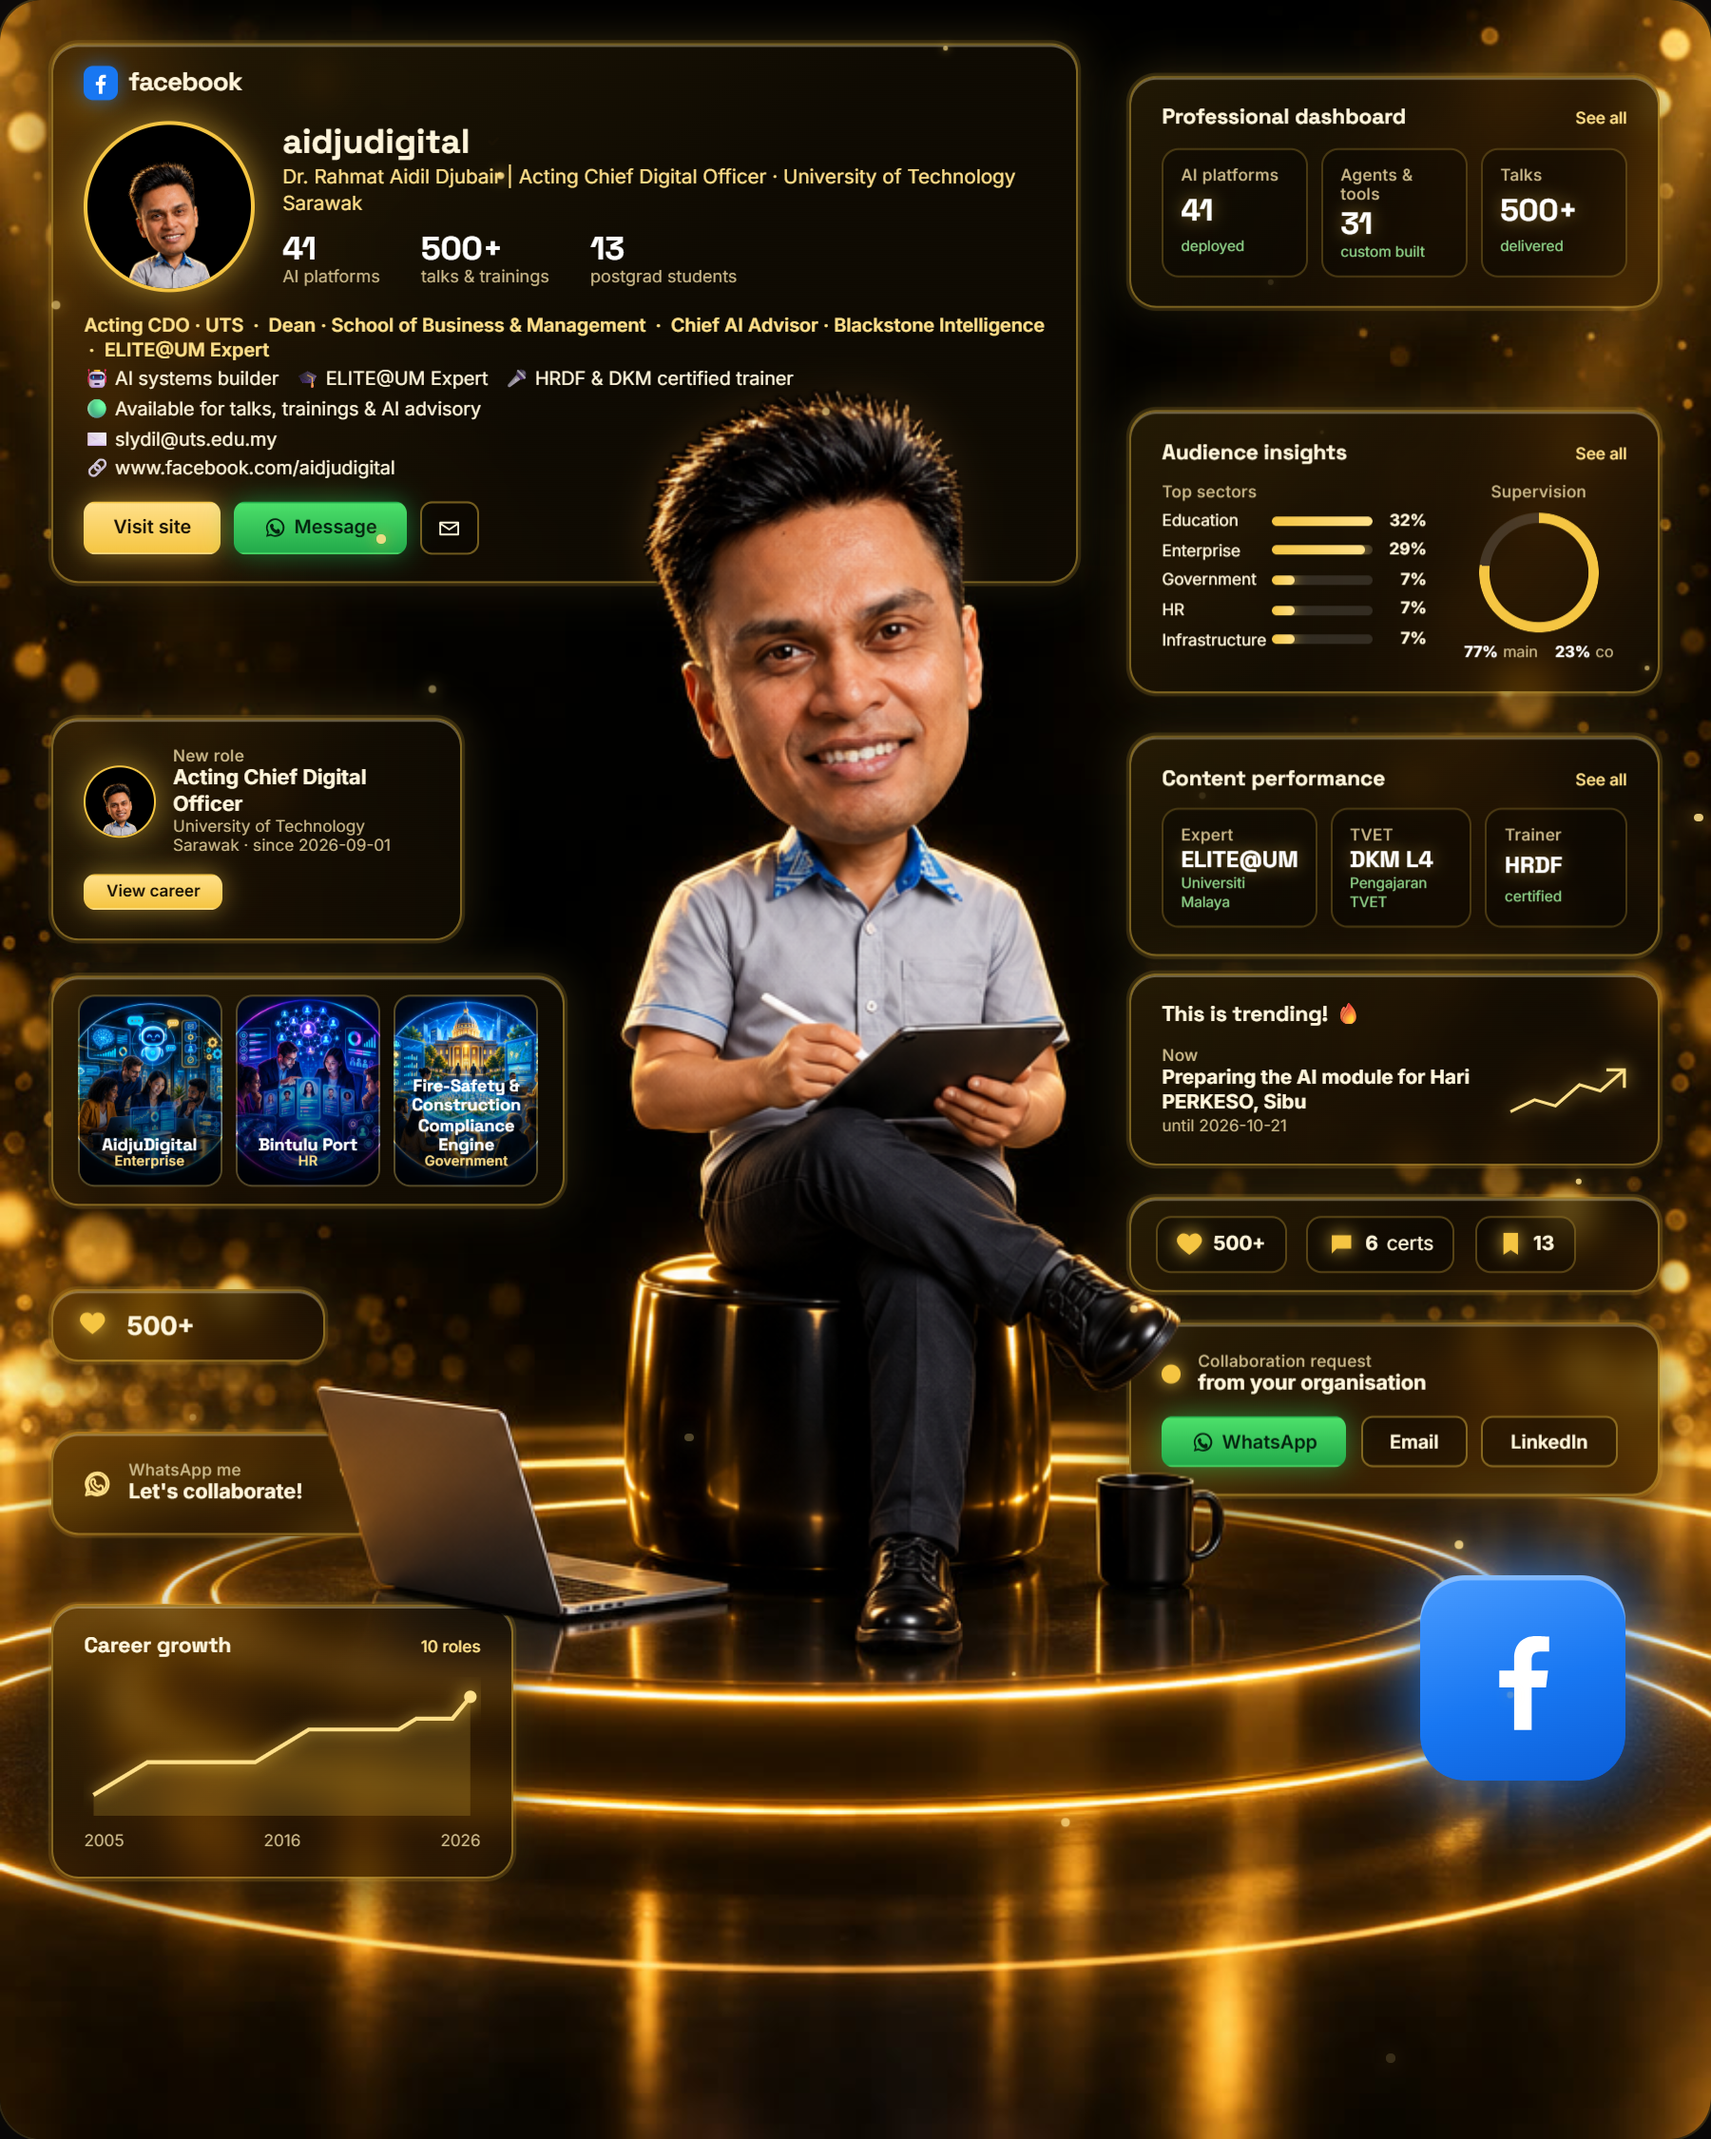
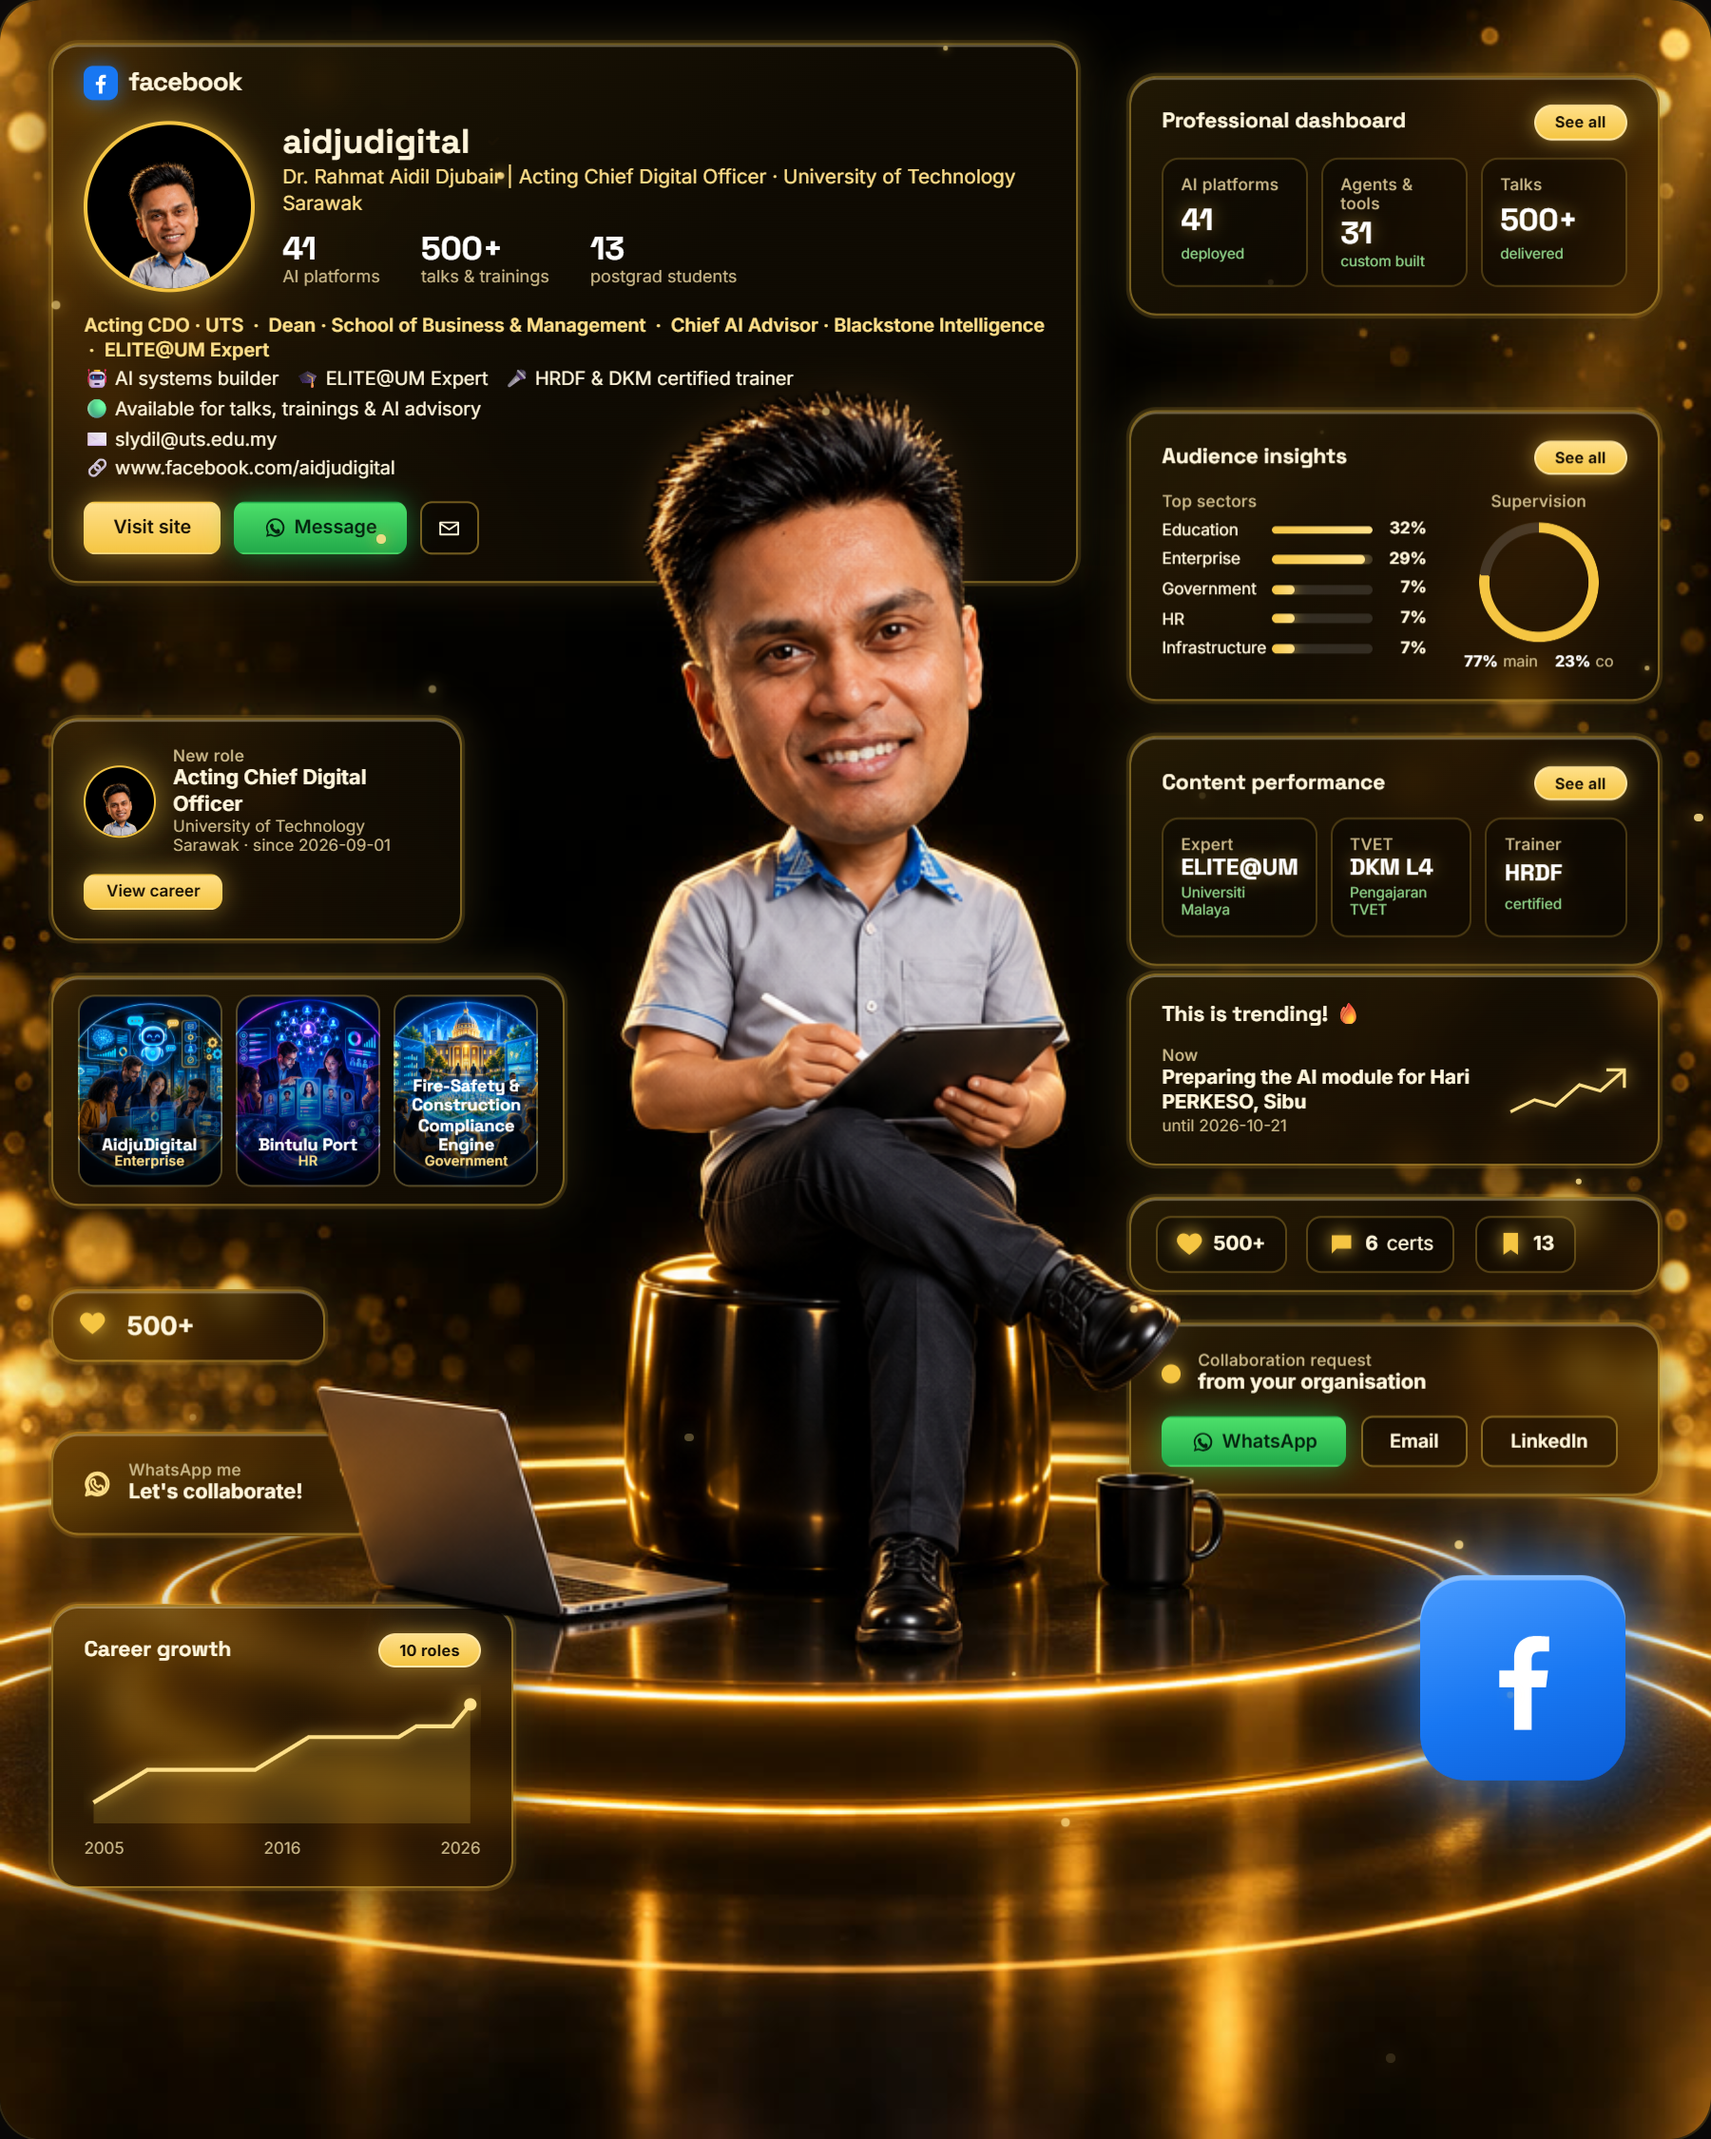
Resume: See all reads as a gold pill button
Claude-Session: https://claude.ai/code/session_01Euzg3xWTRtpQsMbFwotNTs

diff --git a/resume/resume.css b/resume/resume.css
@@ -36,7 +36,11 @@ a { color: inherit; text-decoration: none; }
 .p em { display: block; font: 400 .95cqw/1.2 var(--f-body); color: var(--muted); font-style: normal; }
 .p :where(svg:not(.growth, .trend__line)) { width: 1.6cqw; height: 1.6cqw; fill: none; stroke: var(--gold-2); stroke-width: 1.8; stroke-linecap: round; stroke-linejoin: round; flex: none; } /* icons only; charts size themselves */
 .p__head { display: flex; justify-content: space-between; align-items: baseline; margin-bottom: 1cqw; font: 700 1.25cqw/1.2 var(--f-display); }
-.p__head i { font: 500 .95cqw/1 var(--f-body); color: var(--gold-2); font-style: normal; }
+.p__head i { /* "See all" reads as a small gold pill button */
+  flex: none; padding: .45cqw 1.1cqw; border-radius: 999px; font: 700 .9cqw/1 var(--f-body); font-style: normal; letter-spacing: .02em;
+  background: linear-gradient(180deg, var(--gold-2), var(--gold)); color: #1a1204; border: 1px solid rgba(255, 240, 200, .6);
+  box-shadow: 0 0 1.2cqw rgba(245, 197, 66, .55); transition: box-shadow .3s, filter .3s; }
+.p:hover .p__head i { filter: brightness(1.1); box-shadow: 0 0 2cqw rgba(245, 197, 66, .85); }
 .row { display: flex; gap: 1cqw; align-items: center; }
 .row b { display: block; font-size: 1.2cqw; line-height: 1.25; }
 .dot { width: 1.1cqw; height: 1.1cqw; border-radius: 50%; background: var(--gold); box-shadow: 0 0 1cqw var(--gold); flex: none; }
@@ -133,7 +137,8 @@ a { color: inherit; text-decoration: none; }
   .poster__figure, .poster__sparks { display: none; }
   .poster__ui { position: relative; inset: auto; display: grid; gap: 12px; margin-top: 14px; }
   .p { position: static; width: auto !important; left: auto !important; top: auto !important; font-size: 14px; padding: 14px 16px; border-radius: 14px; }
-  .p small, .p em, .p__head i, .bar, .bar em, .bar b, .donut__legend, .thumb small, .growth__axis { font-size: 12px; }
+  .p small, .p em, .bar, .bar em, .bar b, .donut__legend, .thumb small, .growth__axis { font-size: 12px; }
+  .p__head i { font-size: 12px; padding: 6px 12px; box-shadow: 0 0 10px rgba(245, 197, 66, .55); }
   .p b, .row b, .trend b { font-size: 14px; }
   .p__head, .prof__name, .prof__bio, .reacts, .b { font-size: 14px; }
   .p :where(svg:not(.growth, .trend__line)), .reacts svg { width: 18px; height: 18px; }

diff --git a/resume/index.html b/resume/index.html
@@ -8,13 +8,13 @@
   <link rel="preconnect" href="https://fonts.googleapis.com">
   <link rel="preconnect" href="https://fonts.gstatic.com" crossorigin>
   <link rel="stylesheet" href="https://fonts.googleapis.com/css2?family=Inter:wght@400;500;600;700&family=JetBrains+Mono:wght@400;600&family=Space+Grotesk:wght@500;700&display=swap">
-  <link rel="stylesheet" href="resume.css?v=5">
+  <link rel="stylesheet" href="resume.css?v=6">
 </head>
 <body>
   <main class="poster" id="poster" aria-label="Digital resume of Dr. Rahmat Aidil Djubair">
-    <img class="poster__scene" src="scene.jpg?v=5" alt="" width="1024" height="1280">
+    <img class="poster__scene" src="scene.jpg?v=6" alt="" width="1024" height="1280">
     <div class="poster__ui" id="ui"></div>
-    <img class="poster__figure" src="figure.png?v=5" alt="Dr. Rahmat Aidil Djubair, caricature, seated with a tablet" width="1024" height="1280">
+    <img class="poster__figure" src="figure.png?v=6" alt="Dr. Rahmat Aidil Djubair, caricature, seated with a tablet" width="1024" height="1280">
     <div class="poster__sparks" aria-hidden="true"></div>
   </main>
   <p class="foot"><a href="../">Visit site</a> · <a href="../cv/Rahmat-Aidil-Profile.pdf" download>Download Profile</a> · <a href="https://wa.me/60167725496" rel="noopener" target="_blank">WhatsApp 016-772 5496</a> · <a href="mailto:slydil@uts.edu.my">slydil@uts.edu.my</a> · <a href="https://www.facebook.com/aidjudigital" rel="noopener" target="_blank">facebook.com/aidjudigital</a></p>
@@ -25,6 +25,6 @@
   <script src="../data/projects.js"></script>
   <script src="../data/academic.js"></script>
   <script src="../data/credentials.js"></script>
-  <script src="resume.js?v=5"></script>
+  <script src="resume.js?v=6"></script>
 </body>
 </html>

diff --git a/resume/resume.js b/resume/resume.js
@@ -8,7 +8,7 @@
   const reduced = matchMedia('(prefers-reduced-motion: reduce)').matches;
 
   const SITE = '../', FB = 'https://www.facebook.com/aidjudigital';
-  const AV = 'avatar.png?v=5'; // bump with index.html when the avatar is re-cropped, so caches refetch
+  const AV = 'avatar.png?v=6'; // bump with index.html when the avatar is re-cropped, so caches refetch
   // WhatsApp deep link: Malaysian local number -> international, no punctuation (016-772 5496 -> 60167725496)
   const waNumber = p => { const d = String(p || '').replace(/\D/g, ''); return d.startsWith('0') ? '6' + d : d; };
   const HELLO = "Hi Dr. Rahmat, I saw your digital resume and would like to talk about a talk / training / AI project.";
